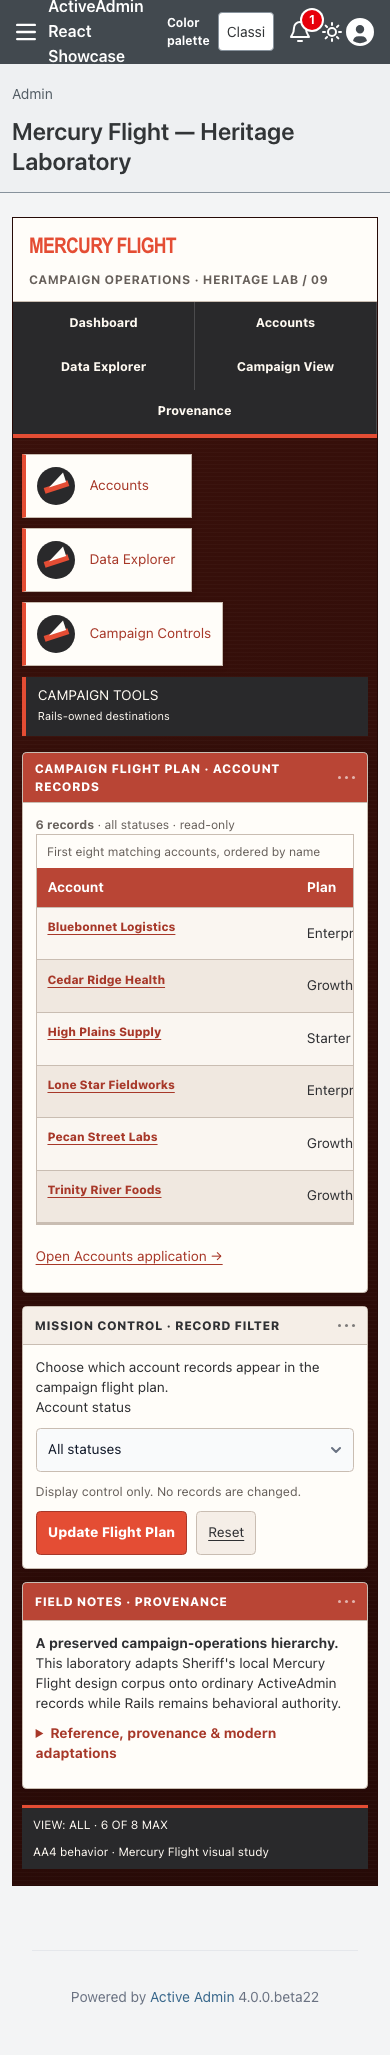
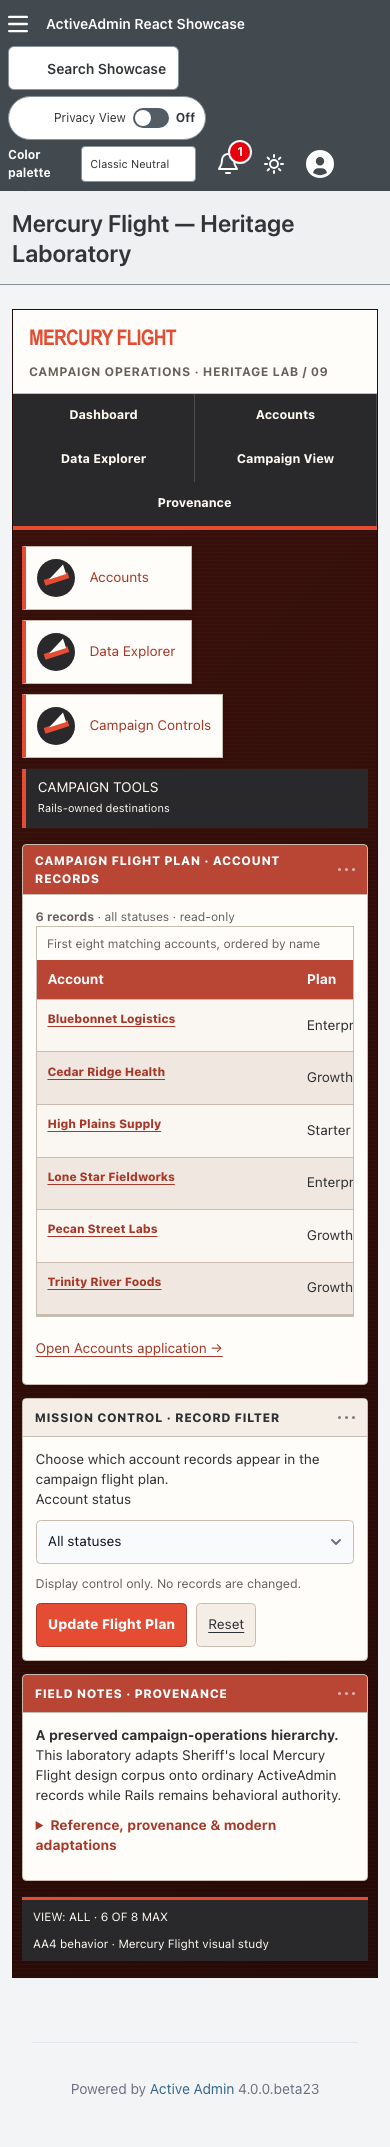
docs: refresh Mercury Flight parent evidence

diff --git a/docs/heritage-mercury-flight.md b/docs/heritage-mercury-flight.md
@@ -7,8 +7,8 @@ Visit `/admin/mercury_flight_laboratory` after signing in, or choose
 **Overview → Mercury Flight Laboratory**. It is a campaign-operations product
 study rather than an operating-system desktop or media-production console.
 
-Presentation comes from the stacked `activeadmin-themes` Mercury Flight theme
-at exact head `06195f58ca43ab15ab9924bade3e19196faf8305`.
+Presentation comes from stable `activeadmin-themes` 0.2.0 at exact merged
+commit `96db6599a0668cfa2338769b35b38262ba9f49d1`.
 Showcase maps the gem's immutable 24 semantic roles onto host-owned Rails markup
 and keeps routes, records, authorization, filtering, accessibility, and native
 behavior local. It contains no Showcase presentation patch. The installed
@@ -53,6 +53,17 @@ Showcase owns semantic markup, accessible names, behavior, tests, and evidence.
 The integration spec rejects any Mercury Flight token or selector in the host
 entrypoint beyond its explicit stylesheet import.
 
+The ownership inventory is deliberately bounded:
+
+- `activeadmin-themes` owns the reusable Mercury Flight recipe and all 24
+  presentation roles;
+- Showcase owns the authenticated route, semantic workspace markup, explicit
+  stylesheet import, inherited bounded account query, tests, documentation,
+  and exact-head browser evidence;
+- the dashboard, Workbench 1.3/2/3, MUI, AmigaOS 4, AROS/Zune, Haiku beta6,
+  and Video Toaster 4000 implementations remain inherited unchanged, including
+  the MUI dedication and adjacent Ronny Dillard memorial link.
+
 ## Verification
 
 Request coverage verifies authentication, all 24 recipe roles, GET filtering,
@@ -65,29 +76,31 @@ a no-JavaScript path.
 Actual browser 200% zoom, physical devices, and additional engines are not
 claimed. A 390px viewport is responsive evidence, not genuine browser zoom.
 
-The host pins `activeadmin-themes` exact head
-`06195f58ca43ab15ab9924bade3e19196faf8305`; installed Mercury Flight CSS
+The host pins stable `activeadmin-themes` 0.2.0 at exact merged commit
+`96db6599a0668cfa2338769b35b38262ba9f49d1`; installed Mercury Flight CSS
[1 lines of base64/hex data omitted]
 
 ## Screenshot Provenance
 
-These screenshots were captured from committed Showcase implementation head
-`40153fab2a23b2a1073e06c3a6463348de253f65` against exact theme head
-`06195f58ca43ab15ab9924bade3e19196faf8305`. Both artifacts were visually
-reviewed after capture; the desktop and narrow views preserve the campaign
-hierarchy, readable record links, local table overflow and document-width
-containment. Historical reference images do not transfer as implementation
-evidence.
+These screenshots were captured from normal-merge Showcase source
+`29b2efe11bbf1042e2a6b2b7c37428a750d5b6b2` after exact Video Toaster parent
+`eddb11408f9b631f33b3248f7d2d547a4908be4e`, against stable theme source
+`96db6599a0668cfa2338769b35b38262ba9f49d1`. Graft/graph metadata was
+unavailable (`NO GRAPH`), so exact Git ancestry and the live stacked base are
+the provenance guard. Both artifacts were visually reviewed after capture; the
+desktop and narrow views preserve the campaign hierarchy, readable record
+links, local table overflow and document-width containment. Historical
+reference images do not transfer as implementation evidence.
 
 ![Mercury Flight Heritage Laboratory at 1440px](screenshots/mercury-flight-1440.png)
 
[2 lines of base64/hex data omitted]
 · 1440 × 1341.
 
 ![Mercury Flight Heritage Laboratory at 390px](screenshots/mercury-flight-390.png)
 
[1 lines of base64/hex data omitted]
-· 390 × 2055.
[1 lines of base64/hex data omitted]
+· 390 × 2147.
 
 ```sh
 CAPTURE_SHOWCASE_SCREENSHOTS=1 CI=1 PLAYWRIGHT_PORT=3193 mise exec -- npx playwright test test/browser/mercury_flight_laboratory.spec.ts
